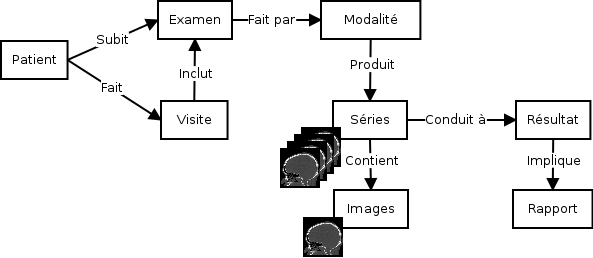
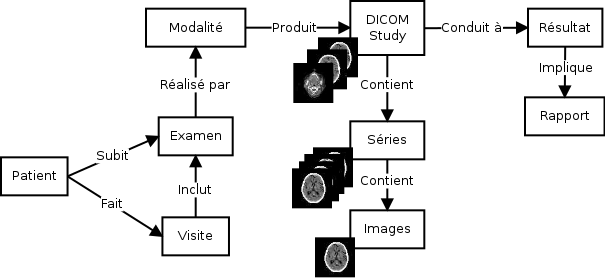
Ajout de du DICOM study dans schéma acquisition

diff --git a/dicom-1/sections/3-principes.tex b/dicom-1/sections/3-principes.tex
@@ -36,6 +36,11 @@
 		\frametitle{Prescription d'un examen radiologique}
 		\begin{itemize}
 			\item Sch\'ematisation de la proc\'edure :
+			%\includegraphics<2->[width=\linewidth]{./figures/scenario-1.png}
+			%\includegraphics<3->[width=\linewidth]{./figures/scenario-2.png}
+			%\includegraphics<4->[width=\linewidth]{./figures/scenario-3.png}
+			%\includegraphics<5->[width=\linewidth]{./figures/scenario-4.png}
+			%\includegraphics<6->[width=\linewidth]{./figures/scenario-5.png}
 			\includegraphics<2->[width=\linewidth]{./figures/scenario.png}
 			\item<3-> DICOM d\'ecrit ces donn\'ees et ces relations.
 			\item<4-> La pr\'ecision du contenu et des liens d\'epend des outils et des utilisateurs (\emph{e.g.} RIS, PACS).
